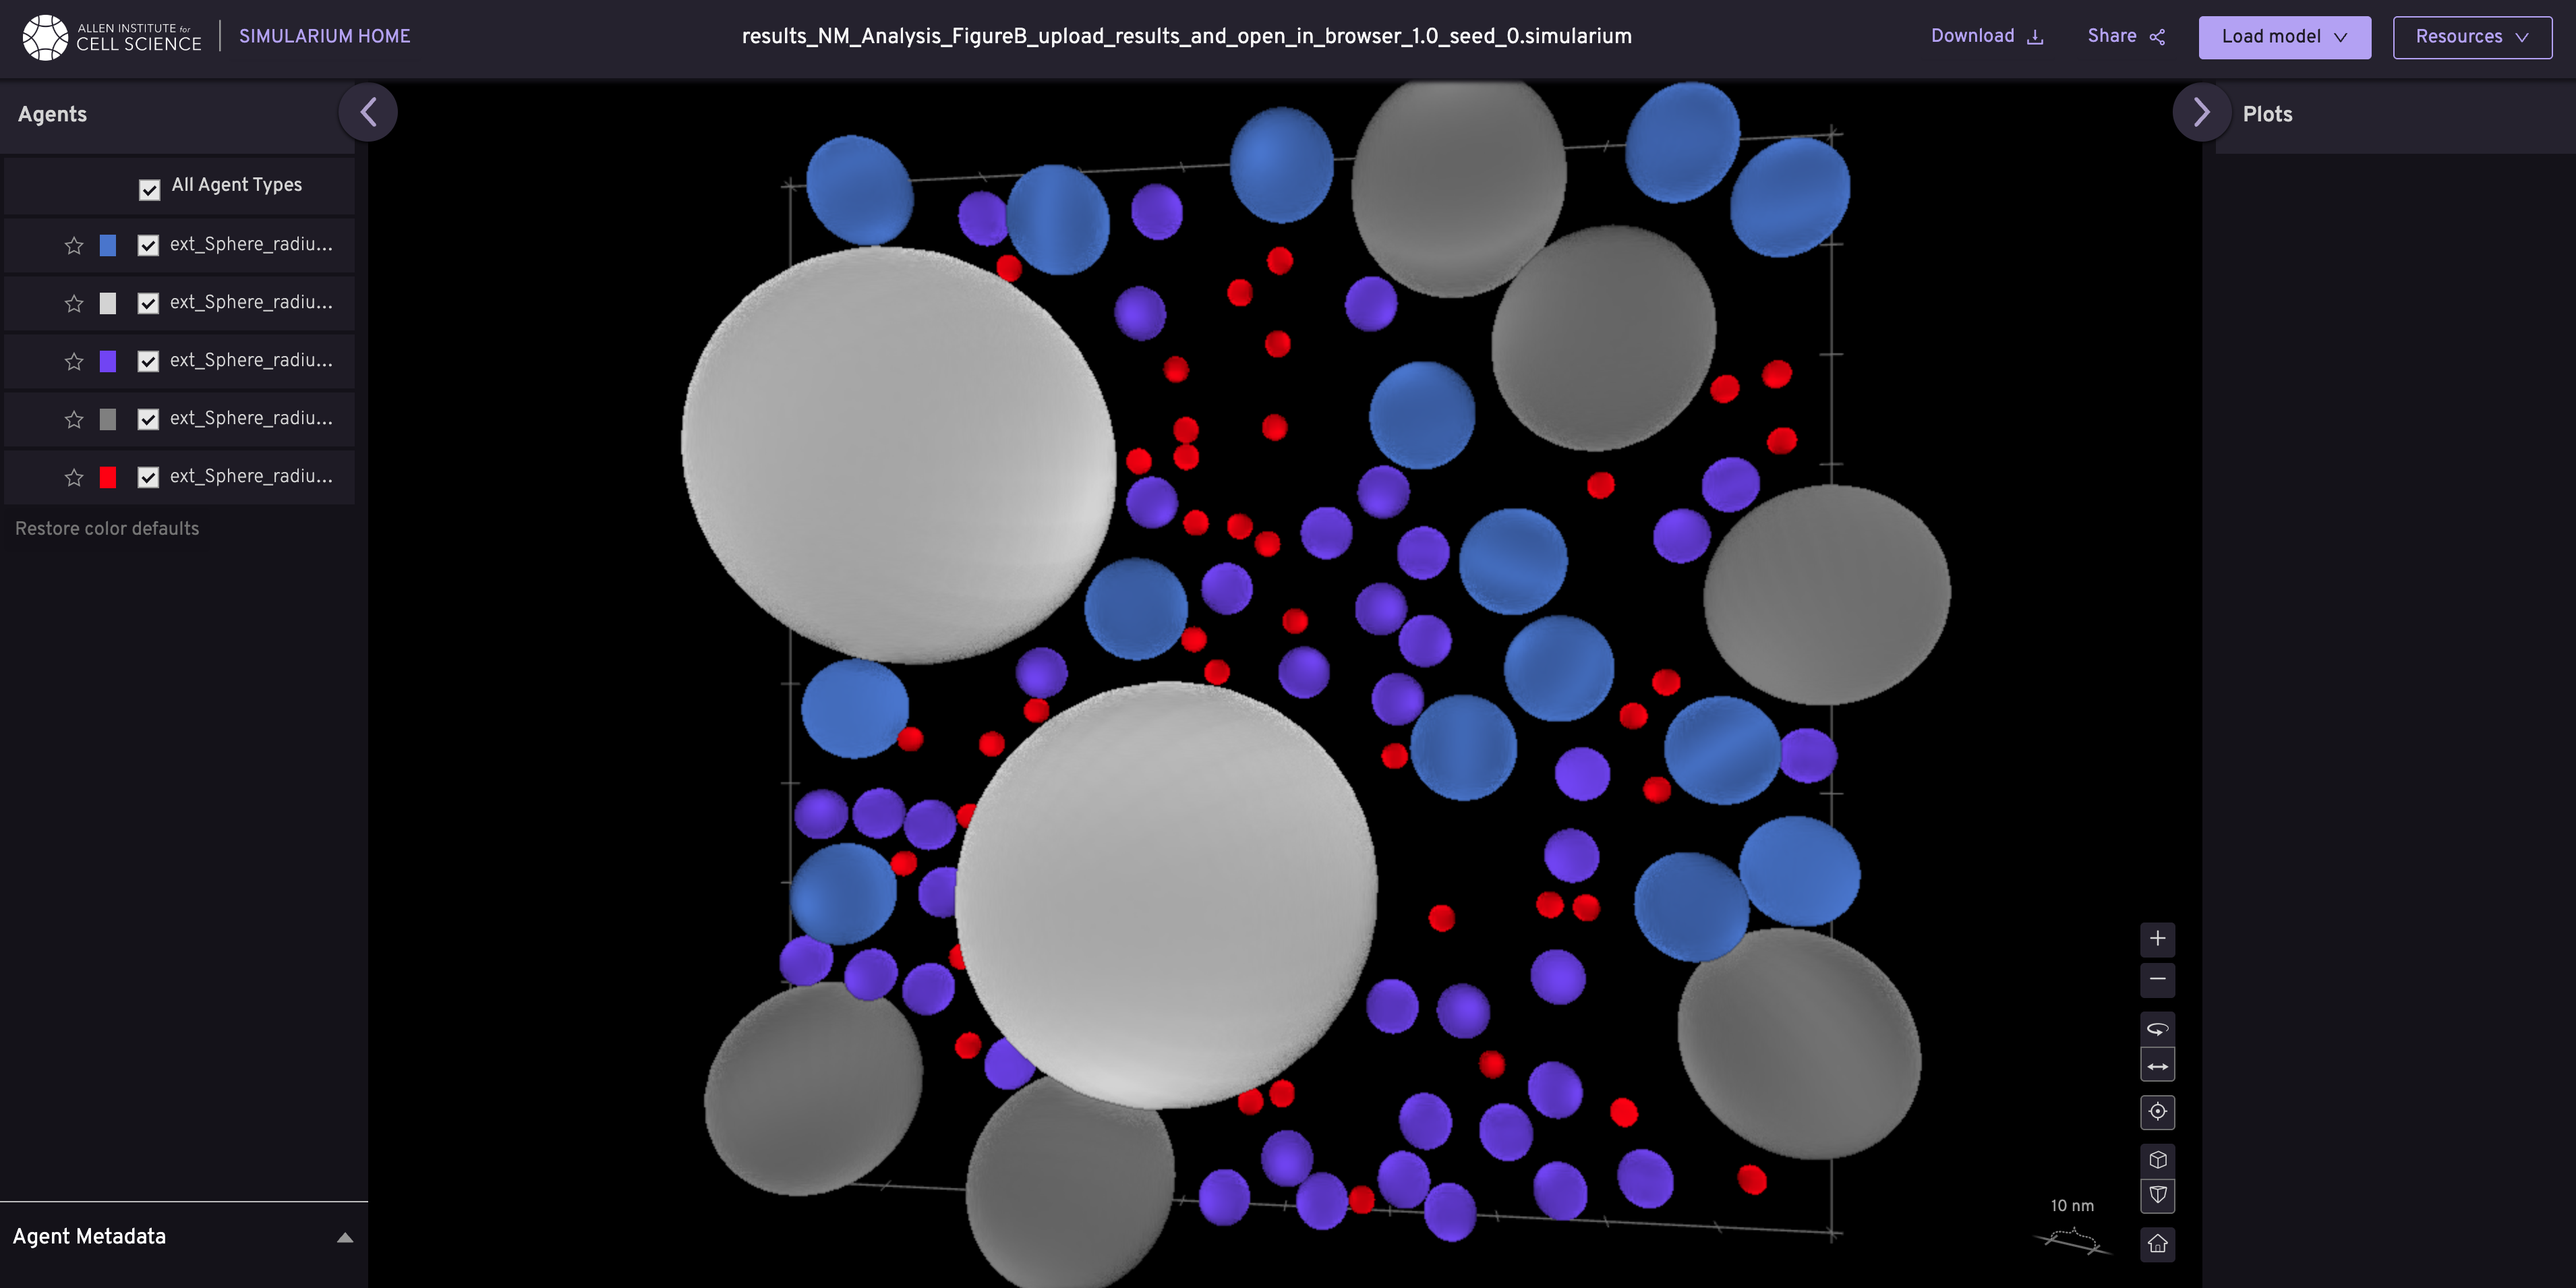
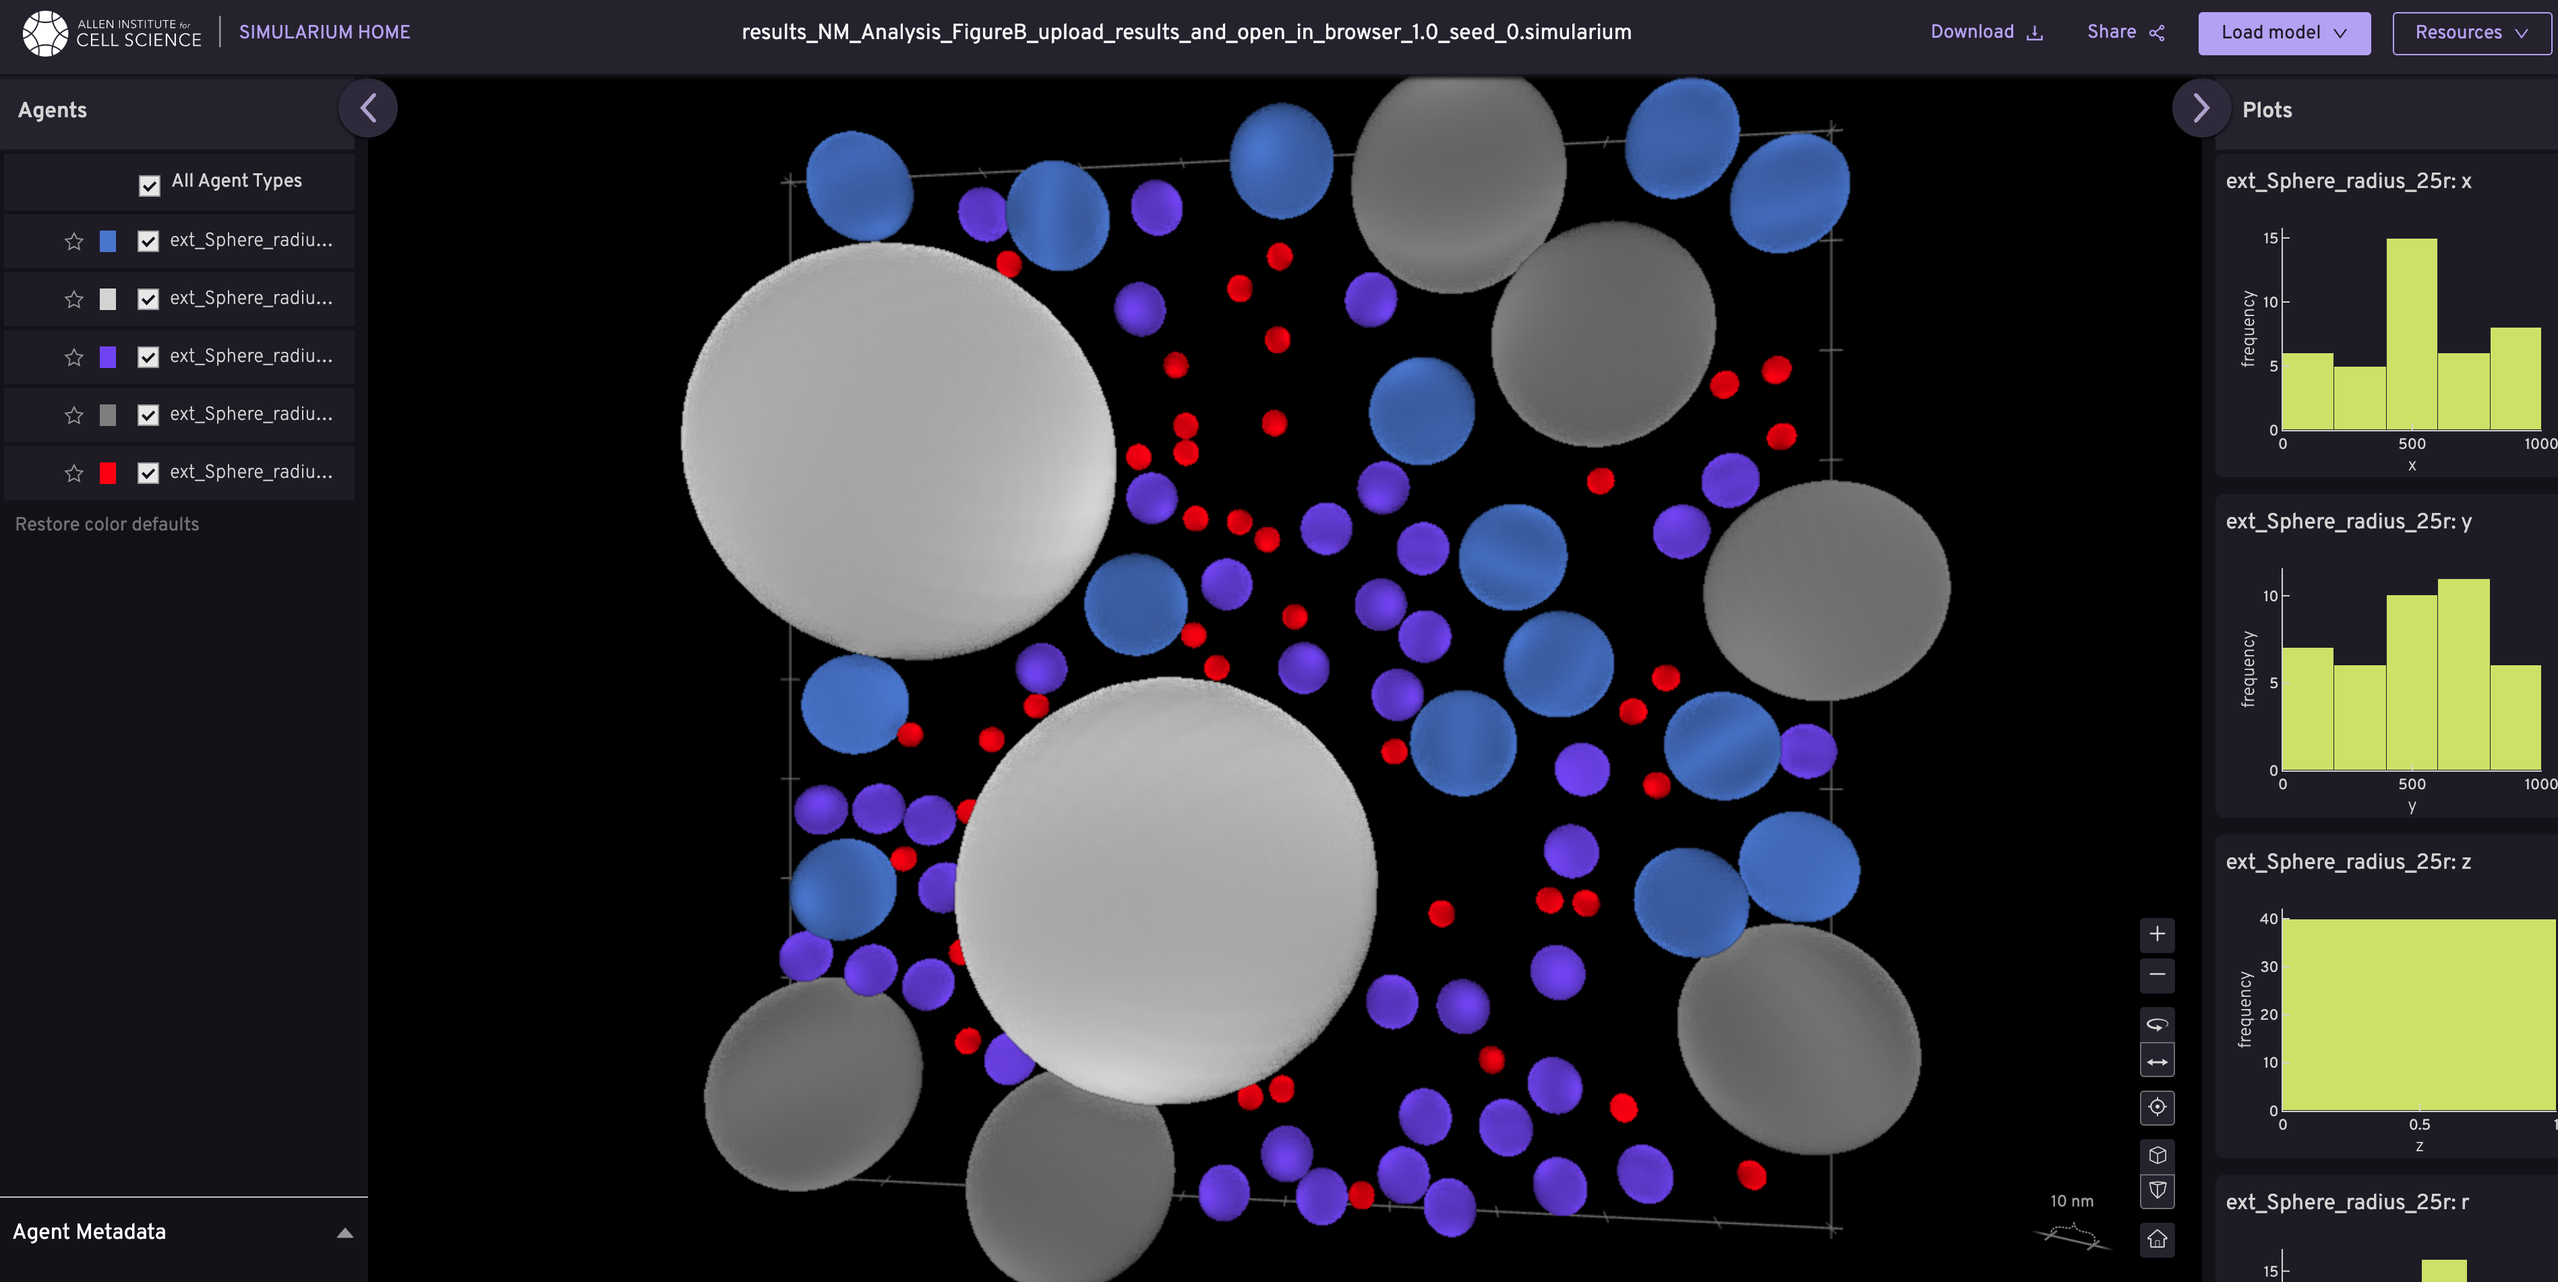
replace result screenshots and update readme

diff --git a/README.md b/README.md
@@ -72,7 +72,7 @@ pack -r examples/recipes/v1/NM_Analysis_FigureB1.0.json
 pack -r examples/recipes/v2/spheres_in_a_box.json
 ```
 
-![Multi-Sphere Result](docs/images/sphere_in_a_box_res.png)
+![Multi-Sphere Result](docs/images/spheres_in_a_box_res.png)
 
 ### Remote Recipe Loading
 You can also load recipes directly from remote servers:
